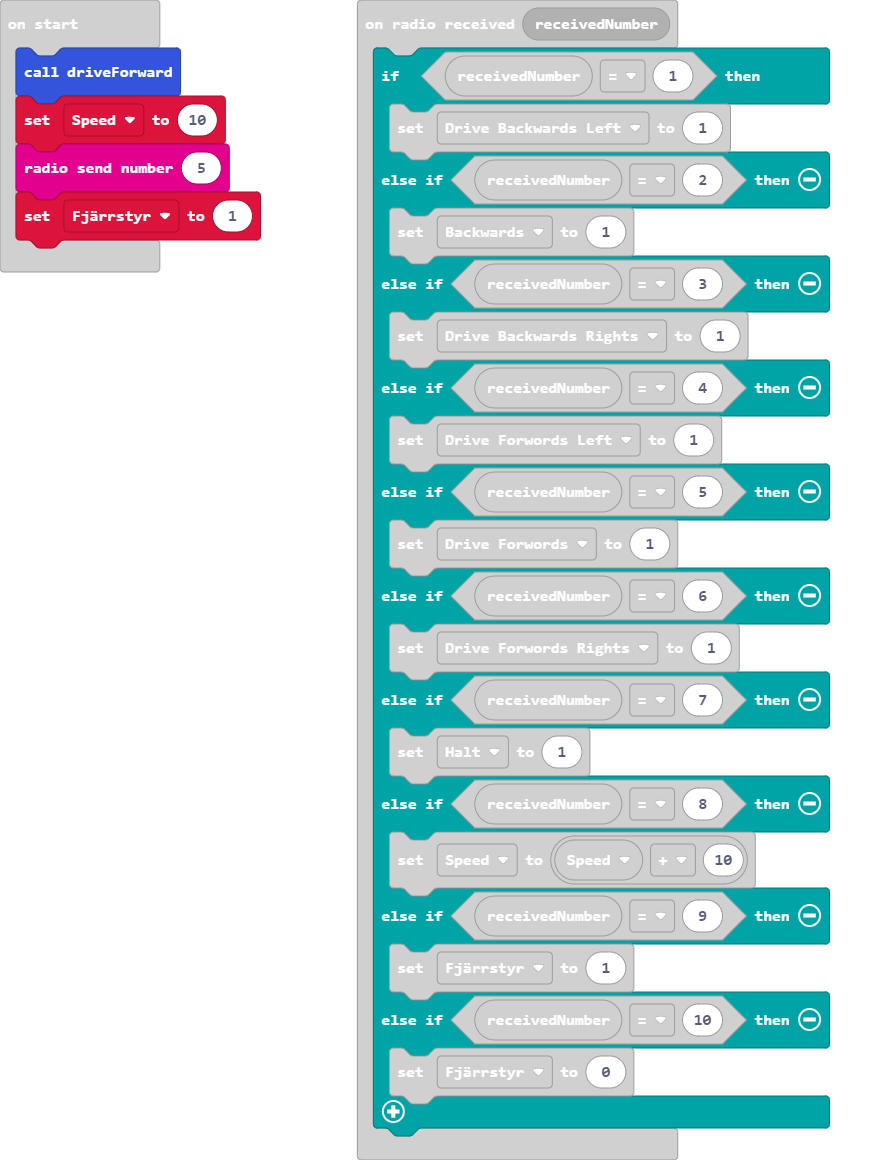
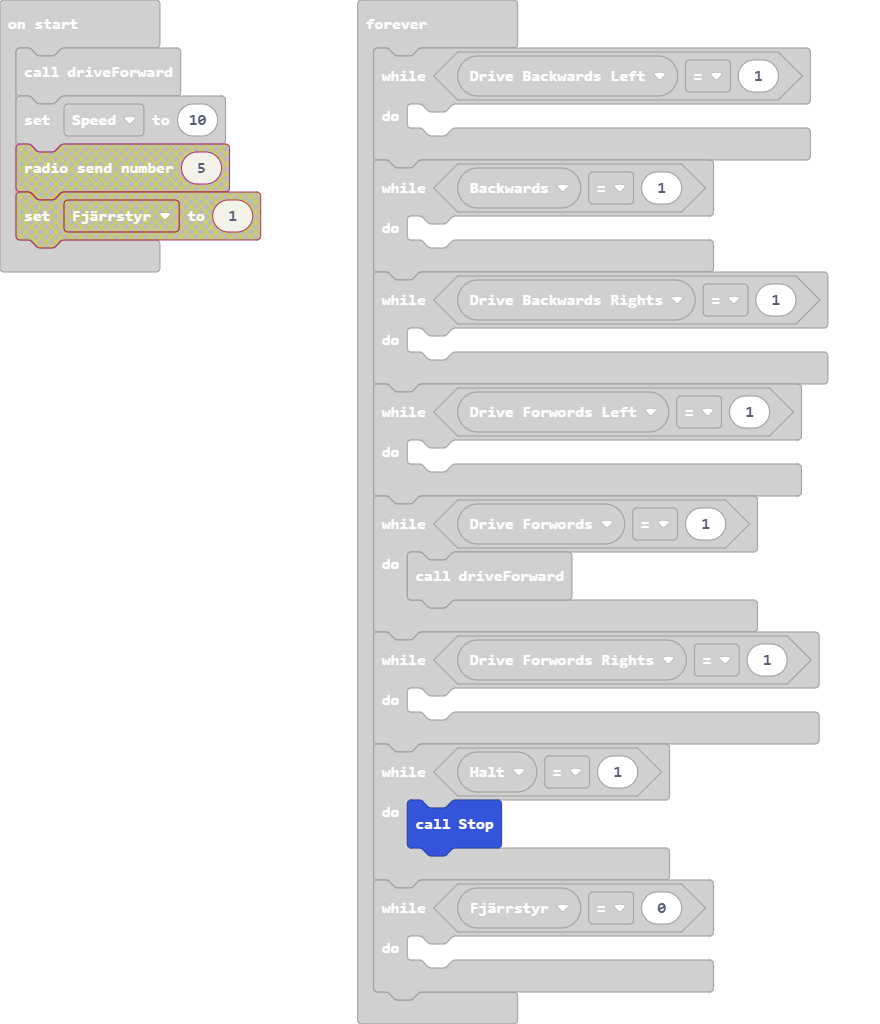
Update main.blocks, main.ts

diff --git a/main.ts b/main.ts
@@ -284,6 +284,7 @@ function Lights_While_Line_folowers_on () {
         . . # . .
         `)
 }
+let Fjärrstyr = 0
 let Halt = 0
 let Drive_Forwords_Rights = 0
 let Drive_Forwords = 0
@@ -292,12 +293,9 @@ let Drive_Backwards_Rights = 0
 let Backwards = 0
 let Drive_Backwards_Left = 0
 let Led = 0
-let Fjärrstyr = 0
 let Speed = 0
 driveForward()
 Speed = 10
-radio.sendNumber(5)
-Fjärrstyr = 1
 basic.forever(function () {
 	
 })
@@ -321,7 +319,7 @@ basic.forever(function () {
     	
     }
     while (Halt == 1) {
-    	
+        Stop()
     }
     while (Fjärrstyr == 0) {
     	
